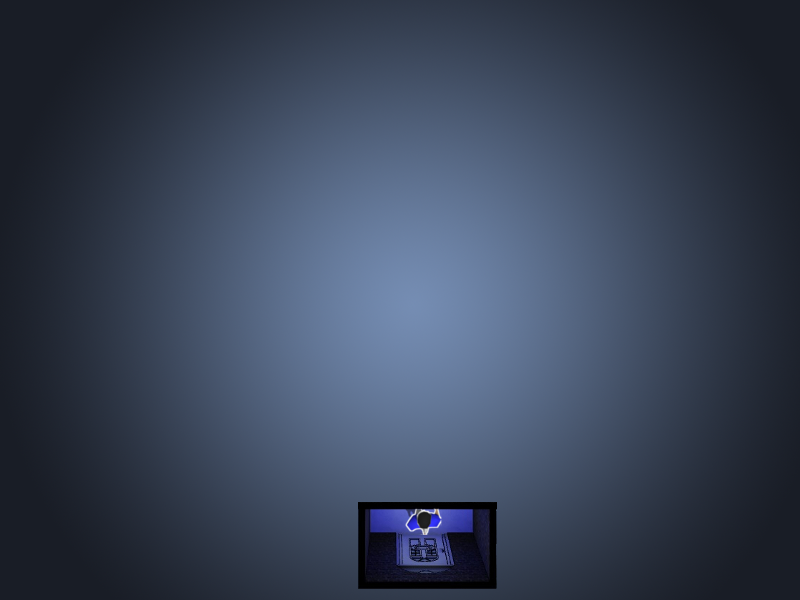
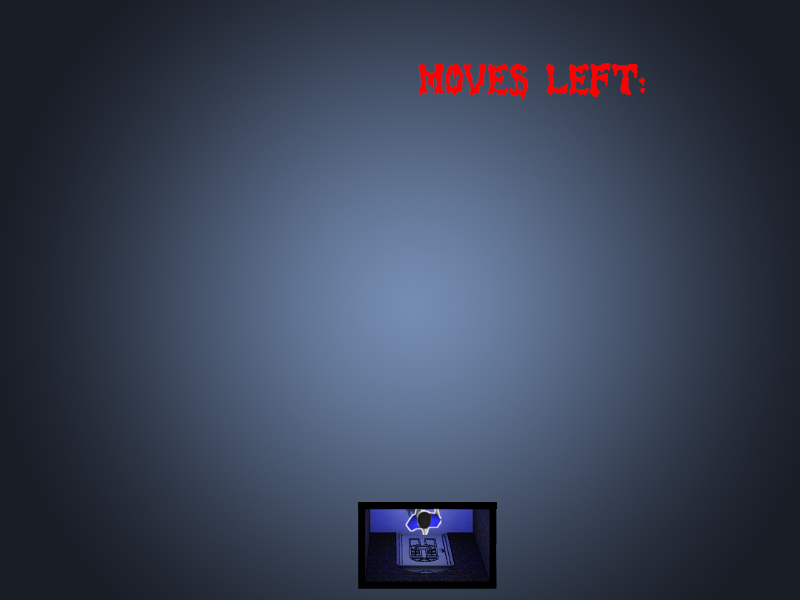
adds numbering system, does not print correct number

Changed region(s): [[0.5, 0.09, 0.8125, 0.18]]

diff --git a/gameCore/map.py b/gameCore/map.py
@@ -1,11 +1,40 @@
 from image import *
 from media import *
 class Map:
-  def __init__(self):
-    self.startingMap    = makePicture("images/startingMap.png")
+  def __init__(self, left, right):
+    self.startingMap = makePicture("images/startingMap.png")
     self.fullNormal  = makePicture("images/fullNormal.png")
     self.fullVisited = makePicture("images/fullVisited.png")
+    self.zero        = makePicture("images/0.png")
+    self.one         = makePicture("images/1.png")
+    self.two         = makePicture("images/2.png")
+    self.three       = makePicture("images/3.png")
+    self.four        = makePicture("images/4.png")
+    self.five        = makePicture("images/5.png")
+    self.six         = makePicture("images/6.png")
+    self.seven       = makePicture("images/7.png")
+    self.eight       = makePicture("images/8.png")
+    self.nine        = makePicture("images/9.png")
+    self.numbers = ( self.zero, self.one, self.two, self.three, self.four, self.five, self.six, self.seven, self.eight, self.nine)
+    self.setNumbers(left,right)
     show(self.startingMap)
+
+  # this method copys only the 'red' parts of an image to a specified area
+  # the number is a number, that it will take from the tuple of number images above
+  # the start should be a tuple (xy coordinate to copy to)
+
+  def pyCopyScreen(self, number, start):
+    for x in range(45):
+      for y in range(45):
+        p = getPixel(self.numbers[number], x, y)
+        color = getColor(p)
+        if distance(red, color) < 130.0 :
+          setColor(getPixel(self.startingMap, x + start[0], y + start[1]) , color)
+
+  def setNumbers(self, left, right):
+    self.pyCopy((650,55),(755,105), True)
+    self.pyCopyScreen(left,  ( 655,55 ) )
+    self.pyCopyScreen(right, ( 705,55) )
 
   def pyCopy(self, ul, lr, current):
     for x in range (ul[0], lr[0]):

diff --git a/gameCore/game.py b/gameCore/game.py
@@ -8,7 +8,7 @@ from map import *
 class Game:
     def __init__(self):  # Game constructor initializes Game class and its functions
         # Make rooms
-        self.map = Map()
+        self.map = Map(7,5)
         self.rooms = []
         self.foyer = Room(1)
         self.foyer.setULLR( (361, 450), (474, 510) )
@@ -130,6 +130,7 @@ class Game:
         self.secretRoom.setChest(self.chest4)
         self.bedroom.setChest(self.chest5)
 
+
     def getDoorforDir(self,direction):  # this function retrieves the door in either the North, South, East, or West direction
         currentRoom = self.player.getRoom()
         if direction == 0:
@@ -195,6 +196,9 @@ class Game:
 
     def getPlayer(self):  # this function returns the player created in the program
         return self.player
+
+    def getMap(self):
+        return self.map
 
     def takeItem(self):  # this function allows the player to take an item if present in a chest
         chest = self.player.getRoom().getChest()

diff --git a/gameCore/run.py b/gameCore/run.py
@@ -12,6 +12,7 @@ class Run:
         self.myGame = Game()
         self.user_Input = ""
         while self.user_Input != "exit":
+            self.myGame.getMap().setNumbers(0,1) #todo nate has to make this actually put the rigt numbers
             self.user_Input = requestString("What you would like to do:")
             if self.moves == 3:
                 showInformation("Your stomache growls, you realize you haven't eaten in days...")
